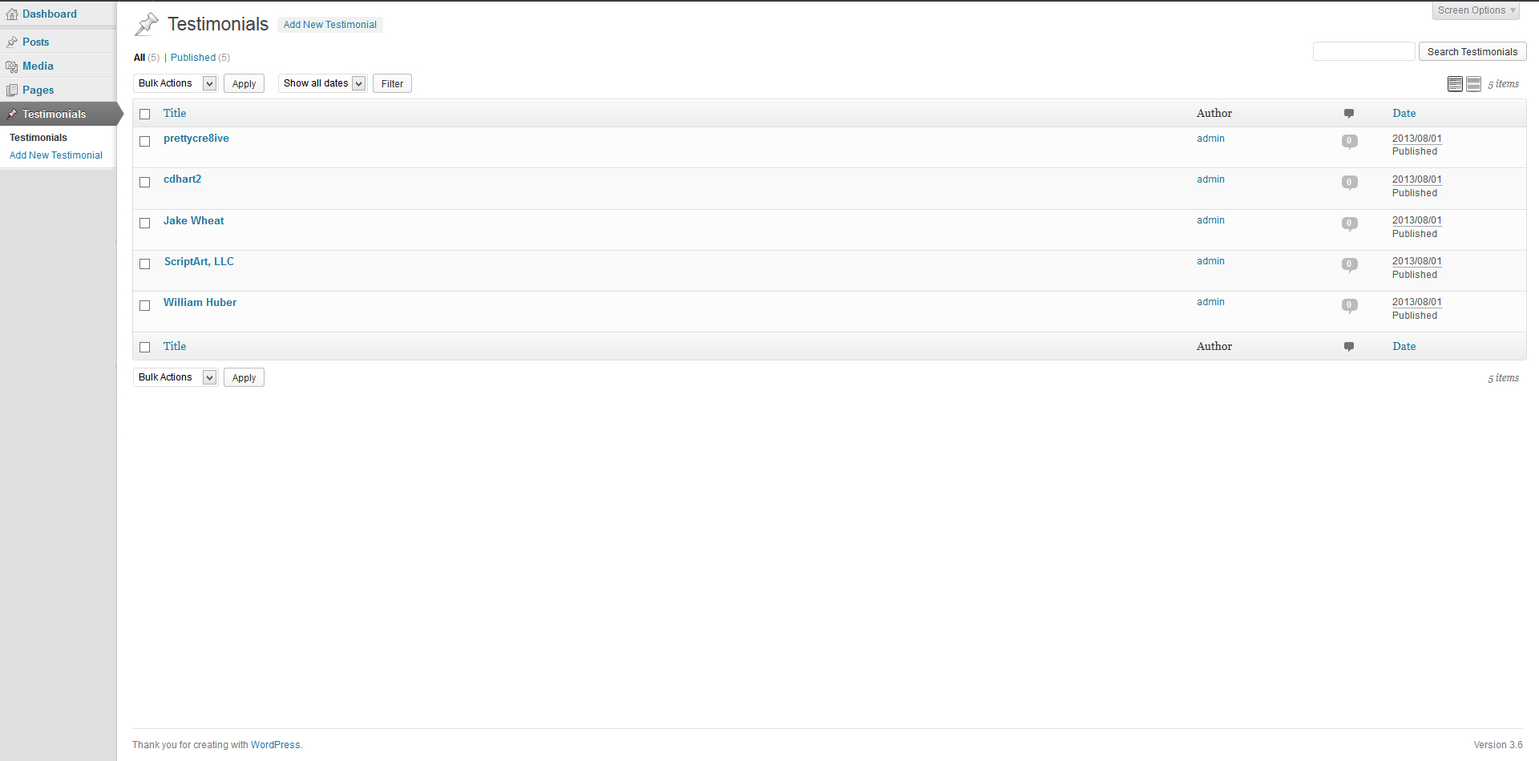
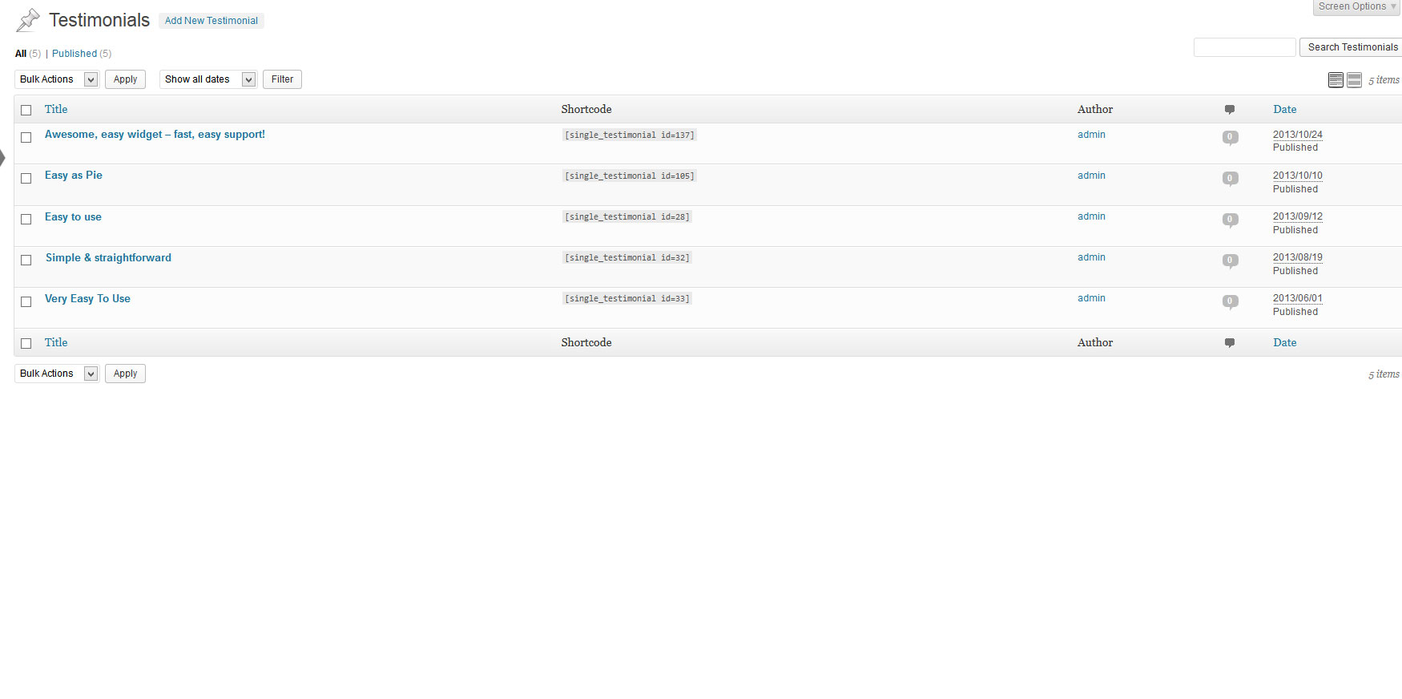
Adds output for single testimonial shortcodes in the testimonial list.
Adds support for Cycle 2.

git-svn-id: https://plugins.svn.wordpress.org/easy-testimonials/trunk@803250 b8457f37-d9ea-0310-8a92-e5e31aec5664

diff --git a/js/jquery.cycle2.min.js b/js/jquery.cycle2.min.js
@@ -1,0 +1,17 @@
+/*!
+* jQuery Cycle2; build: v20131005
+* http://jquery.malsup.com/cycle2/
+* Copyright (c) 2013 M. Alsup; Dual licensed: MIT/GPL
+*/
+/*! core engine; version: 20131003 */
+(function(e){"use strict";function t(e){return(e||"").toLowerCase()}var i="20131003";e.fn.cycle=function(i){var n;return 0!==this.length||e.isReady?this.each(function(){var n,s,o,c,r=e(this),l=e.fn.cycle.log;if(!r.data("cycle.opts")){(r.data("cycle-log")===!1||i&&i.log===!1||s&&s.log===!1)&&(l=e.noop),l("--c2 init--"),n=r.data();for(var a in n)n.hasOwnProperty(a)&&/^cycle[A-Z]+/.test(a)&&(c=n[a],o=a.match(/^cycle(.*)/)[1].replace(/^[A-Z]/,t),l(o+":",c,"("+typeof c+")"),n[o]=c);s=e.extend({},e.fn.cycle.defaults,n,i||{}),s.timeoutId=0,s.paused=s.paused||!1,s.container=r,s._maxZ=s.maxZ,s.API=e.extend({_container:r},e.fn.cycle.API),s.API.log=l,s.API.trigger=function(e,t){return s.container.trigger(e,t),s.API},r.data("cycle.opts",s),r.data("cycle.API",s.API),s.API.trigger("cycle-bootstrap",[s,s.API]),s.API.addInitialSlides(),s.API.preInitSlideshow(),s.slides.length&&s.API.initSlideshow()}}):(n={s:this.selector,c:this.context},e.fn.cycle.log("requeuing slideshow (dom not ready)"),e(function(){e(n.s,n.c).cycle(i)}),this)},e.fn.cycle.API={opts:function(){return this._container.data("cycle.opts")},addInitialSlides:function(){var t=this.opts(),i=t.slides;t.slideCount=0,t.slides=e(),i=i.jquery?i:t.container.find(i),t.random&&i.sort(function(){return Math.random()-.5}),t.API.add(i)},preInitSlideshow:function(){var t=this.opts();t.API.trigger("cycle-pre-initialize",[t]);var i=e.fn.cycle.transitions[t.fx];i&&e.isFunction(i.preInit)&&i.preInit(t),t._preInitialized=!0},postInitSlideshow:function(){var t=this.opts();t.API.trigger("cycle-post-initialize",[t]);var i=e.fn.cycle.transitions[t.fx];i&&e.isFunction(i.postInit)&&i.postInit(t)},initSlideshow:function(){var t,i=this.opts(),n=i.container;i.API.calcFirstSlide(),"static"==i.container.css("position")&&i.container.css("position","relative"),e(i.slides[i.currSlide]).css("opacity",1).show(),i.API.stackSlides(i.slides[i.currSlide],i.slides[i.nextSlide],!i.reverse),i.pauseOnHover&&(i.pauseOnHover!==!0&&(n=e(i.pauseOnHover)),n.hover(function(){i.API.pause(!0)},function(){i.API.resume(!0)})),i.timeout&&(t=i.API.getSlideOpts(i.currSlide),i.API.queueTransition(t,t.timeout+i.delay)),i._initialized=!0,i.API.updateView(!0),i.API.trigger("cycle-initialized",[i]),i.API.postInitSlideshow()},pause:function(t){var i=this.opts(),n=i.API.getSlideOpts(),s=i.hoverPaused||i.paused;t?i.hoverPaused=!0:i.paused=!0,s||(i.container.addClass("cycle-paused"),i.API.trigger("cycle-paused",[i]).log("cycle-paused"),n.timeout&&(clearTimeout(i.timeoutId),i.timeoutId=0,i._remainingTimeout-=e.now()-i._lastQueue,(0>i._remainingTimeout||isNaN(i._remainingTimeout))&&(i._remainingTimeout=void 0)))},resume:function(e){var t=this.opts(),i=!t.hoverPaused&&!t.paused;e?t.hoverPaused=!1:t.paused=!1,i||(t.container.removeClass("cycle-paused"),0===t.slides.filter(":animated").length&&t.API.queueTransition(t.API.getSlideOpts(),t._remainingTimeout),t.API.trigger("cycle-resumed",[t,t._remainingTimeout]).log("cycle-resumed"))},add:function(t,i){var n,s=this.opts(),o=s.slideCount,c=!1;"string"==e.type(t)&&(t=e.trim(t)),e(t).each(function(){var t,n=e(this);i?s.container.prepend(n):s.container.append(n),s.slideCount++,t=s.API.buildSlideOpts(n),s.slides=i?e(n).add(s.slides):s.slides.add(n),s.API.initSlide(t,n,--s._maxZ),n.data("cycle.opts",t),s.API.trigger("cycle-slide-added",[s,t,n])}),s.API.updateView(!0),c=s._preInitialized&&2>o&&s.slideCount>=1,c&&(s._initialized?s.timeout&&(n=s.slides.length,s.nextSlide=s.reverse?n-1:1,s.timeoutId||s.API.queueTransition(s)):s.API.initSlideshow())},calcFirstSlide:function(){var e,t=this.opts();e=parseInt(t.startingSlide||0,10),(e>=t.slides.length||0>e)&&(e=0),t.currSlide=e,t.reverse?(t.nextSlide=e-1,0>t.nextSlide&&(t.nextSlide=t.slides.length-1)):(t.nextSlide=e+1,t.nextSlide==t.slides.length&&(t.nextSlide=0))},calcNextSlide:function(){var e,t=this.opts();t.reverse?(e=0>t.nextSlide-1,t.nextSlide=e?t.slideCount-1:t.nextSlide-1,t.currSlide=e?0:t.nextSlide+1):(e=t.nextSlide+1==t.slides.length,t.nextSlide=e?0:t.nextSlide+1,t.currSlide=e?t.slides.length-1:t.nextSlide-1)},calcTx:function(t,i){var n,s=t;return i&&s.manualFx&&(n=e.fn.cycle.transitions[s.manualFx]),n||(n=e.fn.cycle.transitions[s.fx]),n||(n=e.fn.cycle.transitions.fade,s.API.log('Transition "'+s.fx+'" not found.  Using fade.')),n},prepareTx:function(e,t){var i,n,s,o,c,r=this.opts();return 2>r.slideCount?(r.timeoutId=0,void 0):(!e||r.busy&&!r.manualTrump||(r.API.stopTransition(),r.busy=!1,clearTimeout(r.timeoutId),r.timeoutId=0),r.busy||(0!==r.timeoutId||e)&&(n=r.slides[r.currSlide],s=r.slides[r.nextSlide],o=r.API.getSlideOpts(r.nextSlide),c=r.API.calcTx(o,e),r._tx=c,e&&void 0!==o.manualSpeed&&(o.speed=o.manualSpeed),r.nextSlide!=r.currSlide&&(e||!r.paused&&!r.hoverPaused&&r.timeout)?(r.API.trigger("cycle-before",[o,n,s,t]),c.before&&c.before(o,n,s,t),i=function(){r.busy=!1,r.container.data("cycle.opts")&&(c.after&&c.after(o,n,s,t),r.API.trigger("cycle-after",[o,n,s,t]),r.API.queueTransition(o),r.API.updateView(!0))},r.busy=!0,c.transition?c.transition(o,n,s,t,i):r.API.doTransition(o,n,s,t,i),r.API.calcNextSlide(),r.API.updateView()):r.API.queueTransition(o)),void 0)},doTransition:function(t,i,n,s,o){var c=t,r=e(i),l=e(n),a=function(){l.animate(c.animIn||{opacity:1},c.speed,c.easeIn||c.easing,o)};l.css(c.cssBefore||{}),r.animate(c.animOut||{},c.speed,c.easeOut||c.easing,function(){r.css(c.cssAfter||{}),c.sync||a()}),c.sync&&a()},queueTransition:function(t,i){var n=this.opts(),s=void 0!==i?i:t.timeout;return 0===n.nextSlide&&0===--n.loop?(n.API.log("terminating; loop=0"),n.timeout=0,s?setTimeout(function(){n.API.trigger("cycle-finished",[n])},s):n.API.trigger("cycle-finished",[n]),n.nextSlide=n.currSlide,void 0):(s&&(n._lastQueue=e.now(),void 0===i&&(n._remainingTimeout=t.timeout),n.paused||n.hoverPaused||(n.timeoutId=setTimeout(function(){n.API.prepareTx(!1,!n.reverse)},s))),void 0)},stopTransition:function(){var e=this.opts();e.slides.filter(":animated").length&&(e.slides.stop(!1,!0),e.API.trigger("cycle-transition-stopped",[e])),e._tx&&e._tx.stopTransition&&e._tx.stopTransition(e)},advanceSlide:function(e){var t=this.opts();return clearTimeout(t.timeoutId),t.timeoutId=0,t.nextSlide=t.currSlide+e,0>t.nextSlide?t.nextSlide=t.slides.length-1:t.nextSlide>=t.slides.length&&(t.nextSlide=0),t.API.prepareTx(!0,e>=0),!1},buildSlideOpts:function(i){var n,s,o=this.opts(),c=i.data()||{};for(var r in c)c.hasOwnProperty(r)&&/^cycle[A-Z]+/.test(r)&&(n=c[r],s=r.match(/^cycle(.*)/)[1].replace(/^[A-Z]/,t),o.API.log("["+(o.slideCount-1)+"]",s+":",n,"("+typeof n+")"),c[s]=n);c=e.extend({},e.fn.cycle.defaults,o,c),c.slideNum=o.slideCount;try{delete c.API,delete c.slideCount,delete c.currSlide,delete c.nextSlide,delete c.slides}catch(l){}return c},getSlideOpts:function(t){var i=this.opts();void 0===t&&(t=i.currSlide);var n=i.slides[t],s=e(n).data("cycle.opts");return e.extend({},i,s)},initSlide:function(t,i,n){var s=this.opts();i.css(t.slideCss||{}),n>0&&i.css("zIndex",n),isNaN(t.speed)&&(t.speed=e.fx.speeds[t.speed]||e.fx.speeds._default),t.sync||(t.speed=t.speed/2),i.addClass(s.slideClass)},updateView:function(e,t){var i=this.opts();if(i._initialized){var n=i.API.getSlideOpts(),s=i.slides[i.currSlide];!e&&t!==!0&&(i.API.trigger("cycle-update-view-before",[i,n,s]),0>i.updateView)||(i.slideActiveClass&&i.slides.removeClass(i.slideActiveClass).eq(i.currSlide).addClass(i.slideActiveClass),e&&i.hideNonActive&&i.slides.filter(":not(."+i.slideActiveClass+")").hide(),i.API.trigger("cycle-update-view",[i,n,s,e]),e&&i.API.trigger("cycle-update-view-after",[i,n,s]))}},getComponent:function(t){var i=this.opts(),n=i[t];return"string"==typeof n?/^\s*[\>|\+|~]/.test(n)?i.container.find(n):e(n):n.jquery?n:e(n)},stackSlides:function(t,i,n){var s=this.opts();t||(t=s.slides[s.currSlide],i=s.slides[s.nextSlide],n=!s.reverse),e(t).css("zIndex",s.maxZ);var o,c=s.maxZ-2,r=s.slideCount;if(n){for(o=s.currSlide+1;r>o;o++)e(s.slides[o]).css("zIndex",c--);for(o=0;s.currSlide>o;o++)e(s.slides[o]).css("zIndex",c--)}else{for(o=s.currSlide-1;o>=0;o--)e(s.slides[o]).css("zIndex",c--);for(o=r-1;o>s.currSlide;o--)e(s.slides[o]).css("zIndex",c--)}e(i).css("zIndex",s.maxZ-1)},getSlideIndex:function(e){return this.opts().slides.index(e)}},e.fn.cycle.log=function(){window.console&&console.log&&console.log("[cycle2] "+Array.prototype.join.call(arguments," "))},e.fn.cycle.version=function(){return"Cycle2: "+i},e.fn.cycle.transitions={custom:{},none:{before:function(e,t,i,n){e.API.stackSlides(i,t,n),e.cssBefore={opacity:1,display:"block"}}},fade:{before:function(t,i,n,s){var o=t.API.getSlideOpts(t.nextSlide).slideCss||{};t.API.stackSlides(i,n,s),t.cssBefore=e.extend(o,{opacity:0,display:"block"}),t.animIn={opacity:1},t.animOut={opacity:0}}},fadeout:{before:function(t,i,n,s){var o=t.API.getSlideOpts(t.nextSlide).slideCss||{};t.API.stackSlides(i,n,s),t.cssBefore=e.extend(o,{opacity:1,display:"block"}),t.animOut={opacity:0}}},scrollHorz:{before:function(e,t,i,n){e.API.stackSlides(t,i,n);var s=e.container.css("overflow","hidden").width();e.cssBefore={left:n?s:-s,top:0,opacity:1,display:"block"},e.cssAfter={zIndex:e._maxZ-2,left:0},e.animIn={left:0},e.animOut={left:n?-s:s}}}},e.fn.cycle.defaults={allowWrap:!0,autoSelector:".cycle-slideshow[data-cycle-auto-init!=false]",delay:0,easing:null,fx:"fade",hideNonActive:!0,loop:0,manualFx:void 0,manualSpeed:void 0,manualTrump:!0,maxZ:100,pauseOnHover:!1,reverse:!1,slideActiveClass:"cycle-slide-active",slideClass:"cycle-slide",slideCss:{position:"absolute",top:0,left:0},slides:"> img",speed:500,startingSlide:0,sync:!0,timeout:4e3,updateView:-1},e(document).ready(function(){e(e.fn.cycle.defaults.autoSelector).cycle()})})(jQuery),/*! Cycle2 autoheight plugin; Copyright (c) M.Alsup, 2012; version: 20130304 */
+function(e){"use strict";function t(t,n){var s,o,c,r=n.autoHeight;if("container"==r)o=e(n.slides[n.currSlide]).outerHeight(),n.container.height(o);else if(n._autoHeightRatio)n.container.height(n.container.width()/n._autoHeightRatio);else if("calc"===r||"number"==e.type(r)&&r>=0){if(c="calc"===r?i(t,n):r>=n.slides.length?0:r,c==n._sentinelIndex)return;n._sentinelIndex=c,n._sentinel&&n._sentinel.remove(),s=e(n.slides[c].cloneNode(!0)),s.removeAttr("id name rel").find("[id],[name],[rel]").removeAttr("id name rel"),s.css({position:"static",visibility:"hidden",display:"block"}).prependTo(n.container).addClass("cycle-sentinel cycle-slide").removeClass("cycle-slide-active"),s.find("*").css("visibility","hidden"),n._sentinel=s}}function i(t,i){var n=0,s=-1;return i.slides.each(function(t){var i=e(this).height();i>s&&(s=i,n=t)}),n}function n(t,i,n,s){var o=e(s).outerHeight(),c=i.sync?i.speed/2:i.speed;i.container.animate({height:o},c)}function s(i,o){o._autoHeightOnResize&&(e(window).off("resize orientationchange",o._autoHeightOnResize),o._autoHeightOnResize=null),o.container.off("cycle-slide-added cycle-slide-removed",t),o.container.off("cycle-destroyed",s),o.container.off("cycle-before",n),o._sentinel&&(o._sentinel.remove(),o._sentinel=null)}e.extend(e.fn.cycle.defaults,{autoHeight:0}),e(document).on("cycle-initialized",function(i,o){function c(){t(i,o)}var r,l=o.autoHeight,a=e.type(l),d=null;("string"===a||"number"===a)&&(o.container.on("cycle-slide-added cycle-slide-removed",t),o.container.on("cycle-destroyed",s),"container"==l?o.container.on("cycle-before",n):"string"===a&&/\d+\:\d+/.test(l)&&(r=l.match(/(\d+)\:(\d+)/),r=r[1]/r[2],o._autoHeightRatio=r),"number"!==a&&(o._autoHeightOnResize=function(){clearTimeout(d),d=setTimeout(c,50)},e(window).on("resize orientationchange",o._autoHeightOnResize)),setTimeout(c,30))})}(jQuery),/*! caption plugin for Cycle2;  version: 20130306 */
+function(e){"use strict";e.extend(e.fn.cycle.defaults,{caption:"> .cycle-caption",captionTemplate:"{{slideNum}} / {{slideCount}}",overlay:"> .cycle-overlay",overlayTemplate:"<div>{{title}}</div><div>{{desc}}</div>",captionModule:"caption"}),e(document).on("cycle-update-view",function(t,i,n,s){"caption"===i.captionModule&&e.each(["caption","overlay"],function(){var e=this,t=n[e+"Template"],o=i.API.getComponent(e);o.length&&t?(o.html(i.API.tmpl(t,n,i,s)),o.show()):o.hide()})}),e(document).on("cycle-destroyed",function(t,i){var n;e.each(["caption","overlay"],function(){var e=this,t=i[e+"Template"];i[e]&&t&&(n=i.API.getComponent("caption"),n.empty())})})}(jQuery),/*! command plugin for Cycle2;  version: 20130707 */
+function(e){"use strict";var t=e.fn.cycle;e.fn.cycle=function(i){var n,s,o,c=e.makeArray(arguments);return"number"==e.type(i)?this.cycle("goto",i):"string"==e.type(i)?this.each(function(){var r;return n=i,o=e(this).data("cycle.opts"),void 0===o?(t.log('slideshow must be initialized before sending commands; "'+n+'" ignored'),void 0):(n="goto"==n?"jump":n,s=o.API[n],e.isFunction(s)?(r=e.makeArray(c),r.shift(),s.apply(o.API,r)):(t.log("unknown command: ",n),void 0))}):t.apply(this,arguments)},e.extend(e.fn.cycle,t),e.extend(t.API,{next:function(){var e=this.opts();if(!e.busy||e.manualTrump){var t=e.reverse?-1:1;e.allowWrap===!1&&e.currSlide+t>=e.slideCount||(e.API.advanceSlide(t),e.API.trigger("cycle-next",[e]).log("cycle-next"))}},prev:function(){var e=this.opts();if(!e.busy||e.manualTrump){var t=e.reverse?1:-1;e.allowWrap===!1&&0>e.currSlide+t||(e.API.advanceSlide(t),e.API.trigger("cycle-prev",[e]).log("cycle-prev"))}},destroy:function(){this.stop();var t=this.opts(),i=e.isFunction(e._data)?e._data:e.noop;clearTimeout(t.timeoutId),t.timeoutId=0,t.API.stop(),t.API.trigger("cycle-destroyed",[t]).log("cycle-destroyed"),t.container.removeData(),i(t.container[0],"parsedAttrs",!1),t.retainStylesOnDestroy||(t.container.removeAttr("style"),t.slides.removeAttr("style"),t.slides.removeClass(t.slideActiveClass)),t.slides.each(function(){e(this).removeData(),i(this,"parsedAttrs",!1)})},jump:function(e){var t,i=this.opts();if(!i.busy||i.manualTrump){var n=parseInt(e,10);if(isNaN(n)||0>n||n>=i.slides.length)return i.API.log("goto: invalid slide index: "+n),void 0;if(n==i.currSlide)return i.API.log("goto: skipping, already on slide",n),void 0;i.nextSlide=n,clearTimeout(i.timeoutId),i.timeoutId=0,i.API.log("goto: ",n," (zero-index)"),t=i.currSlide<i.nextSlide,i.API.prepareTx(!0,t)}},stop:function(){var t=this.opts(),i=t.container;clearTimeout(t.timeoutId),t.timeoutId=0,t.API.stopTransition(),t.pauseOnHover&&(t.pauseOnHover!==!0&&(i=e(t.pauseOnHover)),i.off("mouseenter mouseleave")),t.API.trigger("cycle-stopped",[t]).log("cycle-stopped")},reinit:function(){var e=this.opts();e.API.destroy(),e.container.cycle()},remove:function(t){for(var i,n,s=this.opts(),o=[],c=1,r=0;s.slides.length>r;r++)i=s.slides[r],r==t?n=i:(o.push(i),e(i).data("cycle.opts").slideNum=c,c++);n&&(s.slides=e(o),s.slideCount--,e(n).remove(),t==s.currSlide?s.API.advanceSlide(1):s.currSlide>t?s.currSlide--:s.currSlide++,s.API.trigger("cycle-slide-removed",[s,t,n]).log("cycle-slide-removed"),s.API.updateView())}}),e(document).on("click.cycle","[data-cycle-cmd]",function(t){t.preventDefault();var i=e(this),n=i.data("cycle-cmd"),s=i.data("cycle-context")||".cycle-slideshow";e(s).cycle(n,i.data("cycle-arg"))})}(jQuery),/*! hash plugin for Cycle2;  version: 20130905 */
+function(e){"use strict";function t(t,i){var n;return t._hashFence?(t._hashFence=!1,void 0):(n=window.location.hash.substring(1),t.slides.each(function(s){if(e(this).data("cycle-hash")==n){if(i===!0)t.startingSlide=s;else{var o=s>t.currSlide;t.nextSlide=s,t.API.prepareTx(!0,o)}return!1}}),void 0)}e(document).on("cycle-pre-initialize",function(i,n){t(n,!0),n._onHashChange=function(){t(n,!1)},e(window).on("hashchange",n._onHashChange)}),e(document).on("cycle-update-view",function(e,t,i){i.hash&&"#"+i.hash!=window.location.hash&&(t._hashFence=!0,window.location.hash=i.hash)}),e(document).on("cycle-destroyed",function(t,i){i._onHashChange&&e(window).off("hashchange",i._onHashChange)})}(jQuery),/*! loader plugin for Cycle2;  version: 20130307 */
+function(e){"use strict";e.extend(e.fn.cycle.defaults,{loader:!1}),e(document).on("cycle-bootstrap",function(t,i){function n(t,n){function o(t){var o;"wait"==i.loader?(r.push(t),0===a&&(r.sort(c),s.apply(i.API,[r,n]),i.container.removeClass("cycle-loading"))):(o=e(i.slides[i.currSlide]),s.apply(i.API,[t,n]),o.show(),i.container.removeClass("cycle-loading"))}function c(e,t){return e.data("index")-t.data("index")}var r=[];if("string"==e.type(t))t=e.trim(t);else if("array"===e.type(t))for(var l=0;t.length>l;l++)t[l]=e(t[l])[0];t=e(t);var a=t.length;a&&(t.hide().appendTo("body").each(function(t){function c(){0===--l&&(--a,o(d))}var l=0,d=e(this),u=d.is("img")?d:d.find("img");return d.data("index",t),u=u.filter(":not(.cycle-loader-ignore)").filter(':not([src=""])'),u.length?(l=u.length,u.each(function(){this.complete?c():e(this).load(function(){c()}).error(function(){0===--l&&(i.API.log("slide skipped; img not loaded:",this.src),0===--a&&"wait"==i.loader&&s.apply(i.API,[r,n]))})}),void 0):(--a,r.push(d),void 0)}),a&&i.container.addClass("cycle-loading"))}var s;i.loader&&(s=i.API.add,i.API.add=n)})}(jQuery),/*! pager plugin for Cycle2;  version: 20130525 */
+function(e){"use strict";function t(t,i,n){var s,o=t.API.getComponent("pager");o.each(function(){var o=e(this);if(i.pagerTemplate){var c=t.API.tmpl(i.pagerTemplate,i,t,n[0]);s=e(c).appendTo(o)}else s=o.children().eq(t.slideCount-1);s.on(t.pagerEvent,function(e){e.preventDefault(),t.API.page(o,e.currentTarget)})})}function i(e,t){var i=this.opts();if(!i.busy||i.manualTrump){var n=e.children().index(t),s=n,o=s>i.currSlide;i.currSlide!=s&&(i.nextSlide=s,i.API.prepareTx(!0,o),i.API.trigger("cycle-pager-activated",[i,e,t]))}}e.extend(e.fn.cycle.defaults,{pager:"> .cycle-pager",pagerActiveClass:"cycle-pager-active",pagerEvent:"click.cycle",pagerTemplate:"<span>&bull;</span>"}),e(document).on("cycle-bootstrap",function(e,i,n){n.buildPagerLink=t}),e(document).on("cycle-slide-added",function(e,t,n,s){t.pager&&(t.API.buildPagerLink(t,n,s),t.API.page=i)}),e(document).on("cycle-slide-removed",function(t,i,n){if(i.pager){var s=i.API.getComponent("pager");s.each(function(){var t=e(this);e(t.children()[n]).remove()})}}),e(document).on("cycle-update-view",function(t,i){var n;i.pager&&(n=i.API.getComponent("pager"),n.each(function(){e(this).children().removeClass(i.pagerActiveClass).eq(i.currSlide).addClass(i.pagerActiveClass)}))}),e(document).on("cycle-destroyed",function(e,t){var i=t.API.getComponent("pager");i&&(i.children().off(t.pagerEvent),t.pagerTemplate&&i.empty())})}(jQuery),/*! prevnext plugin for Cycle2;  version: 20130709 */
+function(e){"use strict";e.extend(e.fn.cycle.defaults,{next:"> .cycle-next",nextEvent:"click.cycle",disabledClass:"disabled",prev:"> .cycle-prev",prevEvent:"click.cycle",swipe:!1}),e(document).on("cycle-initialized",function(e,t){if(t.API.getComponent("next").on(t.nextEvent,function(e){e.preventDefault(),t.API.next()}),t.API.getComponent("prev").on(t.prevEvent,function(e){e.preventDefault(),t.API.prev()}),t.swipe){var i=t.swipeVert?"swipeUp.cycle":"swipeLeft.cycle swipeleft.cycle",n=t.swipeVert?"swipeDown.cycle":"swipeRight.cycle swiperight.cycle";t.container.on(i,function(){t.API.next()}),t.container.on(n,function(){t.API.prev()})}}),e(document).on("cycle-update-view",function(e,t){if(!t.allowWrap){var i=t.disabledClass,n=t.API.getComponent("next"),s=t.API.getComponent("prev"),o=t._prevBoundry||0,c=void 0!==t._nextBoundry?t._nextBoundry:t.slideCount-1;t.currSlide==c?n.addClass(i).prop("disabled",!0):n.removeClass(i).prop("disabled",!1),t.currSlide===o?s.addClass(i).prop("disabled",!0):s.removeClass(i).prop("disabled",!1)}}),e(document).on("cycle-destroyed",function(e,t){t.API.getComponent("prev").off(t.nextEvent),t.API.getComponent("next").off(t.prevEvent),t.container.off("swipeleft.cycle swiperight.cycle swipeLeft.cycle swipeRight.cycle swipeUp.cycle swipeDown.cycle")})}(jQuery),/*! progressive loader plugin for Cycle2;  version: 20130315 */
+function(e){"use strict";e.extend(e.fn.cycle.defaults,{progressive:!1}),e(document).on("cycle-pre-initialize",function(t,i){if(i.progressive){var n,s,o=i.API,c=o.next,r=o.prev,l=o.prepareTx,a=e.type(i.progressive);if("array"==a)n=i.progressive;else if(e.isFunction(i.progressive))n=i.progressive(i);else if("string"==a){if(s=e(i.progressive),n=e.trim(s.html()),!n)return;if(/^(\[)/.test(n))try{n=e.parseJSON(n)}catch(d){return o.log("error parsing progressive slides",d),void 0}else n=n.split(RegExp(s.data("cycle-split")||"\n")),n[n.length-1]||n.pop()}l&&(o.prepareTx=function(e,t){var s,o;return e||0===n.length?(l.apply(i.API,[e,t]),void 0):(t&&i.currSlide==i.slideCount-1?(o=n[0],n=n.slice(1),i.container.one("cycle-slide-added",function(e,t){setTimeout(function(){t.API.advanceSlide(1)},50)}),i.API.add(o)):t||0!==i.currSlide?l.apply(i.API,[e,t]):(s=n.length-1,o=n[s],n=n.slice(0,s),i.container.one("cycle-slide-added",function(e,t){setTimeout(function(){t.currSlide=1,t.API.advanceSlide(-1)},50)}),i.API.add(o,!0)),void 0)}),c&&(o.next=function(){var e=this.opts();if(n.length&&e.currSlide==e.slideCount-1){var t=n[0];n=n.slice(1),e.container.one("cycle-slide-added",function(e,t){c.apply(t.API),t.container.removeClass("cycle-loading")}),e.container.addClass("cycle-loading"),e.API.add(t)}else c.apply(e.API)}),r&&(o.prev=function(){var e=this.opts();if(n.length&&0===e.currSlide){var t=n.length-1,i=n[t];n=n.slice(0,t),e.container.one("cycle-slide-added",function(e,t){t.currSlide=1,t.API.advanceSlide(-1),t.container.removeClass("cycle-loading")}),e.container.addClass("cycle-loading"),e.API.add(i,!0)}else r.apply(e.API)})}})}(jQuery),/*! tmpl plugin for Cycle2;  version: 20121227 */
+function(e){"use strict";e.extend(e.fn.cycle.defaults,{tmplRegex:"{{((.)?.*?)}}"}),e.extend(e.fn.cycle.API,{tmpl:function(t,i){var n=RegExp(i.tmplRegex||e.fn.cycle.defaults.tmplRegex,"g"),s=e.makeArray(arguments);return s.shift(),t.replace(n,function(t,i){var n,o,c,r,l=i.split(".");for(n=0;s.length>n;n++)if(c=s[n]){if(l.length>1)for(r=c,o=0;l.length>o;o++)c=r,r=r[l[o]]||i;else r=c[i];if(e.isFunction(r))return r.apply(c,s);if(void 0!==r&&null!==r&&r!=i)return r}return i})}})}(jQuery);
+//@ sourceMappingURL=jquery.cycle2.js.map

diff --git a/easy-testimonials.php b/easy-testimonials.php
@@ -4,7 +4,7 @@ Plugin Name: Easy Testimonials
 Plugin URI: http://easy-testimonials.com
 Description: Easy Testimonials - Provides custom post type, shortcode, sidebar widget, and other functionality for testimonials.
 Author: Illuminati Karate
-Version: 1.5.1
+Version: 1.5.3
 Author URI: http://illuminatikarate.com
 
 This file is part of Easy Testimonials.
@@ -27,8 +27,17 @@ global $easy_t_footer_css_output;
 
 include('include/lib.php');
 
+//setup JS
+function easy_testimonials_setup_js() {
+	wp_enqueue_script(
+		'cycle2',
+		plugins_url('js/jquery.cycle2.min.js', __FILE__),
+		array( 'jquery' )
+	);
+}
+
 //add Testimonial CSS to header
-function ik_setup_css() {
+function easy_testimonials_setup_css() {
 	wp_register_style( 'easy_testimonial_style', plugins_url('css/style.css', __FILE__) );
 	wp_register_style( 'easy_testimonial_dark_style', plugins_url('css/dark_style.css', __FILE__) );
 	wp_register_style( 'easy_testimonial_light_style', plugins_url('css/light_style.css', __FILE__) );
@@ -97,7 +106,7 @@ function submitTestimonialForm($atts){
 					// do the wp_insert_post action to insert it
 					do_action('wp_insert_post', 'wp_insert_post');                 
 			} else {
-					echo "You must a valid key to perform this action.";
+					echo "You must have a valid key to perform this action.";
             }
         }       
        
@@ -148,7 +157,7 @@ function submitTestimonialForm($atts){
 }
 
 //add Custom CSS
-function ik_setup_custom_css() {
+function easy_testimonials_setup_custom_css() {
 	//use this to track if css has been output
 	global $easy_t_footer_css_output;
 	
@@ -183,7 +192,7 @@ if(!function_exists('word_trim')):
 endif;
 
 //setup custom post type for testimonials
-function ik_setup_testimonials(){
+function easy_testimonials_setup_testimonials(){
 	//include custom post type code
 	include('include/ik-custom-post-type.php');
 	//include options code
@@ -199,7 +208,7 @@ function ik_setup_testimonials(){
 	
 	//load list of current posts that have featured images	
 	$supportedTypes = get_theme_support( 'post-thumbnails' );
-
+	
 	//none set, add them just to our type
     if( $supportedTypes === false ){
         add_theme_support( 'post-thumbnails', array( 'testimonial' ) );       
@@ -215,6 +224,21 @@ function ik_setup_testimonials(){
 	
 	add_image_size( 'easy_testimonial_thumb', 50, 50, true );
 }
+ 
+//this is the heading of the new column we're adding to the testimonial posts list
+function easy_t_column_head($defaults) {  
+	$defaults = array_slice($defaults, 0, 2, true) +
+    array("single_shortcode" => "Shortcode") +
+    array_slice($defaults, 2, count($defaults)-2, true);
+    return $defaults;  
+}  
+
+//this content is displayed in the testimonial post list
+function easy_t_columns_content($column_name, $post_ID) {  
+    if ($column_name == 'single_shortcode') {  
+		echo "<code>[single_testimonial id={$post_ID}]</code>";
+    }  
+} 
 
 //load testimonials into an array and output a random one
 function outputRandomTestimonial($atts){	
@@ -315,6 +339,75 @@ function UniqueRandomNumbersWithinRange($min, $max, $quantity) {
     return array_slice($numbers, 0, $quantity);
 }
 
+//output specific testimonial
+function outputSingleTestimonial($atts){ 
+	
+	//load shortcode attributes into an array
+	extract( shortcode_atts( array(
+		'testimonials_link' => get_option('testimonials_link'),
+		'show_title' => 0,
+		'id' => ''
+	), $atts ) );
+	
+	$show_thumbs = get_option('testimonials_image');
+	
+	ob_start();
+	
+	$i = 0;
+	
+	//load testimonials into an array
+	$loop = new WP_Query(array( 'post_type' => 'testimonial','p' => $id));
+	while($loop->have_posts()) : $loop->the_post();
+		$postid = get_the_ID();
+		$testimonial['content'] = get_post_meta($postid, '_ikcf_short_content', true); 		
+
+		//if nothing is set for the short content, use the long content
+		if(strlen($testimonial['content']) < 2){
+			$testimonial['content'] = get_the_content($postid); 
+		}
+		
+		if ($show_thumbs) {
+			$testimonial['image'] = get_the_post_thumbnail($postid, 'easy_testimonial_thumb');
+		}
+		
+		$testimonial['client'] = get_post_meta($postid, '_ikcf_client', true); 	
+		$testimonial['position'] = get_post_meta($postid, '_ikcf_position', true); 
+	
+		?><blockquote class="easy_testimonial">		
+			<?php if ($show_thumbs) {
+				echo $testimonial['image'];
+			} ?>		
+			<?php if ($show_title) {
+				echo '<p class="easy_testimonial_title">' . get_the_title($postid) . '</p>';
+			} ?>	
+			<?php if(get_option('meta_data_position')): ?>
+				<?php if(strlen($testimonial['client'])>0 || strlen($testimonial['position'])>0 ): ?>
+				<p class="testimonial_author">
+					<cite><?php echo $testimonial['client'];?><br/><?php echo $testimonial['position'];?></cite>
+				</p>	
+				<?php endif; ?>
+			<?php endif; ?>
+			<p class="testimonial_body">
+				<?php echo $testimonial['content'];?>
+			</p>	
+			<?php if(!get_option('meta_data_position')): ?>			
+				<?php if(strlen($testimonial['client'])>0 || strlen($testimonial['position'])>0 ): ?>
+				<p class="testimonial_author">
+					<cite><?php echo $testimonial['client'];?><br/><?php echo $testimonial['position'];?></cite>
+				</p>	
+				<?php endif; ?>
+			<?php endif; ?>
+		</blockquote><?php 	
+			
+	endwhile;	
+	wp_reset_query();
+	
+	$content = ob_get_contents();
+	ob_end_clean();	
+	
+	return $content;
+}
+
 //output all testimonials
 function outputTestimonials($atts){ 
 	
@@ -392,6 +485,100 @@ function outputTestimonials($atts){
 	return $content;
 }
 
+
+//output all testimonials for use in JS widget
+function outputTestimonialsCycle($atts){ 
+	
+	//load shortcode attributes into an array
+	extract( shortcode_atts( array(
+		'testimonials_link' => get_option('testimonials_link'),
+		'show_title' => 0,
+		'count' => -1,
+		'transition' => 'fade',
+		'timer' => '2000'
+	), $atts ) );
+	
+	$show_thumbs = get_option('testimonials_image');
+			
+	if(!is_numeric($count)){
+		$count = -1;
+	}
+	
+	ob_start();
+	
+	$i = 0;
+	
+	?>
+	<div class="cycle-slideshow" 
+		data-cycle-fx="<?php echo $transition; ?>" 
+		data-cycle-timeout="<?php echo $timer; ?>"
+		data-cycle-slides="> div"
+	>
+	<?php
+	
+	//load testimonials into an array
+	$loop = new WP_Query(array( 'post_type' => 'testimonial','posts_per_page' => '-1'));
+	while($loop->have_posts()) : $loop->the_post();
+		$postid = get_the_ID();
+		$testimonial['content'] = get_post_meta($postid, '_ikcf_short_content', true); 		
+
+		//if nothing is set for the short content, use the long content
+		if(strlen($testimonial['content']) < 2){
+			$testimonial['content'] = get_the_content($postid); 
+		}
+		
+		if ($show_thumbs) {
+			$testimonial['image'] = get_the_post_thumbnail($postid, 'easy_testimonial_thumb');
+		}
+		
+		$testimonial['client'] = get_post_meta($postid, '_ikcf_client', true); 	
+		$testimonial['position'] = get_post_meta($postid, '_ikcf_position', true); 
+	
+		if($i < $count || $count == -1){
+	
+			?><div><blockquote class="easy_testimonial">		
+				<?php if ($show_thumbs) {
+					echo $testimonial['image'];
+				} ?>		
+				<?php if ($show_title) {
+					echo '<p class="easy_testimonial_title">' . get_the_title($postid) . '</p>';
+				} ?>	
+				<?php if(get_option('meta_data_position')): ?>
+					<?php if(strlen($testimonial['client'])>0 || strlen($testimonial['position'])>0 ): ?>
+					<p class="testimonial_author">
+						<cite><?php echo $testimonial['client'];?><br/><?php echo $testimonial['position'];?></cite>
+					</p>	
+					<?php endif; ?>
+				<?php endif; ?>
+				<p class="testimonial_body">
+					<?php echo $testimonial['content'];?>
+				</p>	
+				<?php if(!get_option('meta_data_position')): ?>			
+					<?php if(strlen($testimonial['client'])>0 || strlen($testimonial['position'])>0 ): ?>
+					<p class="testimonial_author">
+						<cite><?php echo $testimonial['client'];?><br/><?php echo $testimonial['position'];?></cite>
+					</p>	
+					<?php endif; ?>
+				<?php endif; ?>
+			</blockquote></div><?php 	
+			
+			$i ++;
+		}
+		
+		
+	endwhile;	
+	wp_reset_query();
+	
+	?>
+	</div>
+	<?php
+	
+	$content = ob_get_contents();
+	ob_end_clean();	
+	
+	return $content;
+}
+
 //register any widgets here
 function easy_testimonials_register_widgets() {
 	include('random_testimonial_widget.php');
@@ -401,19 +588,26 @@ function easy_testimonials_register_widgets() {
 
 //create shortcodes
 add_shortcode('random_testimonial', 'outputRandomTestimonial');
+add_shortcode('single_testimonial', 'outputSingleTestimonial');
 add_shortcode('testimonials', 'outputTestimonials');
 add_shortcode('submit_testimonial', 'submitTestimonialForm');
+add_shortcode('testimonials_cycle' , 'outputTestimonialsCycle');
 
+//add JS
+add_action( 'wp_enqueue_scripts', 'easy_testimonials_setup_js' );
 
 //add CSS
-add_action( 'wp_head', 'ik_setup_css' );
+add_action( 'wp_head', 'easy_testimonials_setup_css' );
 
 //add Custom CSS
-add_action( 'wp_footer', 'ik_setup_custom_css');
+add_action( 'wp_footer', 'easy_testimonials_setup_custom_css');
 
 //register sidebar widgets
 add_action( 'widgets_init', 'easy_testimonials_register_widgets' );
 
 //do stuff
-add_action( 'after_setup_theme', 'ik_setup_testimonials' );
+add_action( 'after_setup_theme', 'easy_testimonials_setup_testimonials' );
+
+add_filter('manage_testimonial_posts_columns', 'easy_t_column_head', 10);  
+add_action('manage_testimonial_posts_custom_column', 'easy_t_columns_content', 10, 2); 
 ?>

diff --git a/include/lib.php b/include/lib.php
@@ -9,15 +9,19 @@ function isValidKey(){
 	$keygen = new ETKG();
 	$computedKey = $keygen->computeKey($webaddress, $email);
 
-	// check the posted key against the computed key
 	if ($key == $computedKey) {
-		// valid key!
 		return true;
-	} 
-	else {
-		// invalid key!
-		return false;
+	} else {
+		$plugin = "easy-testimonials-pro/easy-testimonials-pro.php";
+		
+		include_once( ABSPATH . 'wp-admin/includes/plugin.php' );
+		
+		if(is_plugin_active($plugin)){
+			return true;
+		}
+		else {
+			return false;
+		}
 	}
-
 }
 ?>
